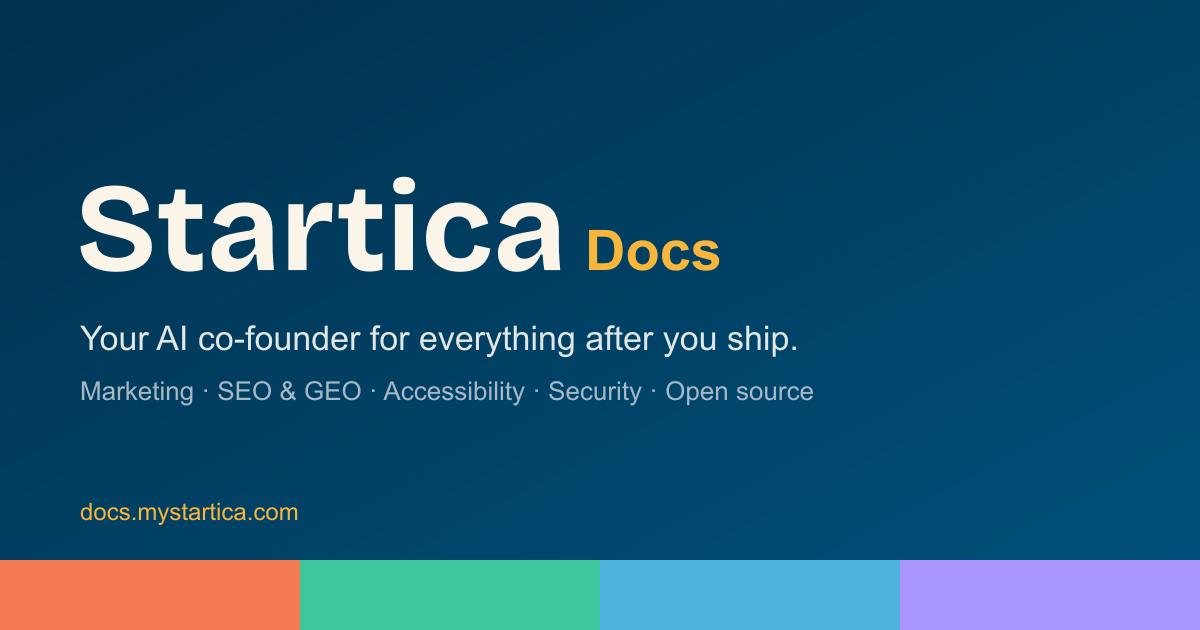
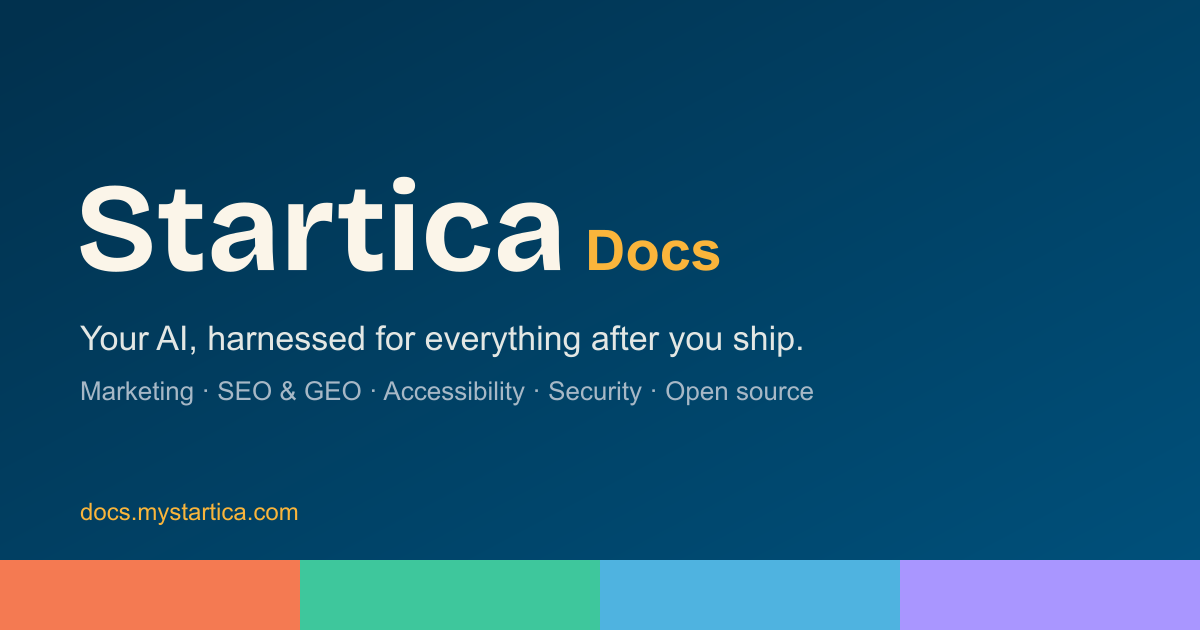
Positioning: Startica is the open-source startup harness
Replace "Your AI co-founder for everything after you ship" with the
category line "The open-source startup harness" and the headline "Your AI,
harnessed for everything after you ship" across the website, docs, README,
the app's metadata and welcome screen, the OG images and the AI prompts.
Adds a homepage FAQ entry explaining the word, and records the decision in
PLAN.md and the brand page.

Changed region(s): [[0.1542, 0.5127, 0.6783, 0.573]]

diff --git a/packages/core/src/intel/prompts.ts b/packages/core/src/intel/prompts.ts
@@ -5,7 +5,7 @@ import { channels } from "@startica/db/schema";
 export const RESEARCH_PROMPT_VERSION = "intel-research@2";
 export const SYNTHESIS_PROMPT_VERSION = "intel-synthesis@4"; // since @3: communities ranked strongest first
 
-export const RESEARCH_SYSTEM = `You are the market researcher inside Startica, an AI co-founder that helps small founders with everything after they ship.
+export const RESEARCH_SYSTEM = `You are the market researcher inside Startica, an open-source startup harness that helps small founders with everything after they ship.
 You research one product so a strategist can plan organic growth for it (community replies, content, SEO), not paid ads.
 
 Use web search and web fetch to find, for the product described by the user:
@@ -15,7 +15,7 @@ Use web search and web fetch to find, for the product described by the user:
 
 Report what you found as concise markdown notes with a short section per topic. Cite the URL for each factual claim. Say plainly when something is uncertain or when you could not verify it. Don't pad: no introductions or conclusions.`;
 
-export const SYNTHESIS_SYSTEM = `You are the strategist inside Startica, an AI co-founder that helps small founders with everything after they ship.
+export const SYNTHESIS_SYSTEM = `You are the strategist inside Startica, an open-source startup harness that helps small founders with everything after they ship.
 From the material provided (the owner's notes, crawled pages from the product's site, and research notes with sources), write the product intel that the rest of Startica builds on: Reddit listening, reply drafting, content, and the growth roadmap.
 
 Rules:

diff --git a/packages/core/src/growth/audits.ts b/packages/core/src/growth/audits.ts
@@ -32,7 +32,7 @@ const FOCUS: Record<AuditKind, string> = {
   geo: `Audit visibility in AI assistants' answers (generative engine optimization), using the research notes: does the product appear when the audience asks AI assistants or search for recommendations; how is it described; which competitors appear instead and why; what sources those answers cite; what content or mentions would get the product included.`,
 };
 
-const SYSTEM = `You are a senior growth and conversion reviewer inside Startica, an AI co-founder that helps a small founder with everything after they ship. Be specific and evidence-based: quote or cite what you saw. Prioritize: high = likely costing signups now; medium = clear improvement; low = polish. 5–12 findings. Never invent facts about the product; if you couldn't check something, say so in the detail.`;
+const SYSTEM = `You are a senior growth and conversion reviewer inside Startica, an open-source startup harness that helps a small founder with everything after they ship. Be specific and evidence-based: quote or cite what you saw. Prioritize: high = likely costing signups now; medium = clear improvement; low = polish. 5–12 findings. Never invent facts about the product; if you couldn't check something, say so in the detail.`;
 
 /** Facts an SEO audit can measure directly instead of asking a model. */
 export async function seoFacts(siteUrl: string): Promise<string> {

diff --git a/packages/core/src/growth/roadmap.ts b/packages/core/src/growth/roadmap.ts
@@ -22,7 +22,7 @@ import { PLAYBOOKS, playbookText } from "./playbooks.ts";
 
 export const ROADMAP_PROMPT_VERSION = "roadmap-plan@3";
 
-const SYSTEM = `You are the growth strategist inside Startica, an AI co-founder that helps a small founder with everything after they ship. You maintain the product's growth roadmap: a short, prioritized list of initiatives across the funnel (acquisition, activation, retention, revenue, referral), each one an experiment with a hypothesis and a success metric.
+const SYSTEM = `You are the growth strategist inside Startica, an open-source startup harness that helps a small founder with everything after they ship. You maintain the product's growth roadmap: a short, prioritized list of initiatives across the funnel (acquisition, activation, retention, revenue, referral), each one an experiment with a hypothesis and a success metric.
 
 You are given the product, its current numbers, what Startica has done (replies drafted, posted, dismissed and why), recent audit findings, the playbooks you can draw from, and the current roadmap.
 

diff --git a/apps/web/simple.config.js b/apps/web/simple.config.js
@@ -15,7 +15,7 @@ export default {
     title: 'Startica',
     url: 'https://mystartica.com',
     description:
-      'Startica is an open-source AI co-founder for everything after you ship. It finds the people who need your product, drafts replies, posts and ads in your voice, gets you found in search and AI answers, and keeps your site accessible and secure. It runs on your desktop, and you approve everything.',
+      'The open-source startup harness. Startica is a harness for your own AI model: it researches your market, finds the conversations, drafts the replies and ads, and checks your SEO, accessibility and security. You approve every move. It runs on your desktop.',
     author: 'Christopher Casper',
     language: 'en',
     repo: 'https://github.com/chriscasper/startica',

diff --git a/apps/desktop-web/src/app/welcome/page.tsx b/apps/desktop-web/src/app/welcome/page.tsx
@@ -20,7 +20,7 @@ export default function WelcomePage() {
       <div className="grid gap-1">
         <StarticaLogo title={null} className="mb-4 h-8 w-auto justify-self-start" />
         <h1 className="text-2xl font-semibold tracking-tight">Welcome to Startica</h1>
-        <p className="text-muted-foreground">Your AI co-founder for everything after you ship. Two minutes of setup, and Startica starts learning about your product.</p>
+        <p className="text-muted-foreground">Your AI, harnessed for everything after you ship. Two minutes of setup, and Startica starts learning about your product.</p>
       </div>
       <Suspense fallback={<Skeleton className="h-80 w-full" />}>
         <Welcome />

diff --git a/apps/docs/simple.config.js b/apps/docs/simple.config.js
@@ -154,7 +154,7 @@ export default {
     title: 'Startica Docs',
     url: 'https://docs.mystartica.com',
     description:
-      'Documentation for Startica, the open-source AI co-founder for everything after you ship: marketing, SEO & GEO, accessibility and security for your product, on your desktop. Install, guides, credentials, reference and contributing.',
+      'Documentation for Startica, the open-source startup harness: marketing, SEO & GEO, accessibility and security for your product, on your desktop. Install, guides, credentials, reference and contributing.',
     author: 'Christopher Casper',
     language: 'en',
     repo: 'https://github.com/chriscasper/startica',

diff --git a/apps/desktop/loading/splash.html b/apps/desktop/loading/splash.html
@@ -227,8 +227,8 @@
         "Reticulating splines",
         "Polishing the launch button",
         "Untangling UTM tags",
-        "Warming up your AI co-founder",
-        "Brewing coffee for the co-founder",
+        "Fastening the harness",
+        "Brewing coffee for the founder",
         "Herding analytics events",
         "Calibrating the hype meter",
         "Alphabetizing the roadmap",

diff --git a/apps/desktop-web/src/app/layout.tsx b/apps/desktop-web/src/app/layout.tsx
@@ -16,7 +16,7 @@ const geistMono = Geist_Mono({
 
 export const metadata: Metadata = {
   title: { default: "Startica", template: "%s · Startica" },
-  description: "Your AI co-founder for everything after you ship.",
+  description: "Your AI, harnessed for everything after you ship.",
 };
 
 export default function RootLayout({ children }: LayoutProps<"/">) {

diff --git a/PLAN.md b/PLAN.md
@@ -106,7 +106,7 @@ Both sites are built: the marketing site (`apps/web`) and 80 docs pages (`apps/d
 
 ## 6. Website decisions
 
-**Tagline (decided 2026-10-14):** "Your AI co-founder for everything after you ship." Sub-line: "Startica finds the people who need your product, gets you found in search and AI answers, and keeps your site accessible and secure. One desktop app, your own keys, and nothing goes out without you." Rejected: "one app instead of five subscriptions" (frames it by what it replaces), "grow your product, keep your site in shape" (forgettable), keeping the marketing headline (undersells half the app).
+**Tagline (decided 2026-10-18):** Category line "The open-source startup harness." Headline "Your AI, harnessed for everything after you ship." Body "Startica is a harness for your own AI model: it researches your market, finds the conversations, drafts the replies and ads, and checks your SEO, accessibility and security. You approve every move." Why: "co-founder" implied autonomy that contradicts "you approve everything" and is a crowded claim; a harness is the structure around your own model, with you holding the reins. Replaced: "Your AI co-founder for everything after you ship" (2026-10-14). Also rejected: "one app instead of five subscriptions" (frames it by what it replaces), "grow your product, keep your site in shape" (forgettable), keeping the marketing headline (undersells half the app).
 
 **The four jobs** (the home page's main section, each in its module's accent color): Reach people (Marketing) · Get found (SEO & GEO) · Work for everyone (Accessibility) · Stay safe (Security). Then how it fits together: Dashboard, Today, Roadmap and the shared scan.
 

diff --git a/apps/docs/content/index.md b/apps/docs/content/index.md
@@ -1,10 +1,10 @@
 ---
 title: Startica documentation
-description: Install, set up and use Startica, the open-source AI co-founder for everything after you ship. Marketing, SEO & GEO, accessibility and security for your product, on your own computer.
+description: Install, set up and use Startica, the open-source startup harness. Marketing, SEO & GEO, accessibility and security for your product, on your own computer.
 layout: doc
 ---
 
-Startica is an open-source (MIT) desktop app that looks after a product once it's shipped. It has four modules: **Marketing** finds conversations worth joining and drafts replies, posts and ads in your voice; **SEO & GEO** helps the product get found in search, in AI answers and by AI agents; **Accessibility** checks your sites against WCAG; and **Security** checks what anyone on the internet can see about your sites, and keeps watching. A **Dashboard** and a short daily list pull it together.
+Startica is the open-source startup harness: an MIT-licensed desktop app that puts your own AI model to work on a product once it's shipped. It has four modules: **Marketing** finds conversations worth joining and drafts replies, posts and ads in your voice; **SEO & GEO** helps the product get found in search, in AI answers and by AI agents; **Accessibility** checks your sites against WCAG; and **Security** checks what anyone on the internet can see about your sites, and keeps watching. A **Dashboard** and a short daily list pull it together.
 
 It runs on your computer, keeps its data in a local SQLite file, and calls the Claude or OpenAI API with your own key. Nothing is posted, launched or changed without you.
 

diff --git a/apps/docs/content/getting-started/what-is-startica.md b/apps/docs/content/getting-started/what-is-startica.md
@@ -4,7 +4,7 @@ description: Startica is a local-first desktop app that looks after a product on
 layout: doc
 ---
 
-Startica is an AI co-founder for everything after you ship, and it runs on your computer. You tell it about your product and its website. It learns the product and its market, finds the conversations where your customers talk, drafts replies, posts and ads for you to review, and checks your sites for the problems that keep people from finding, using or trusting them. Each day it boils all of that down to a short list of what to do next.
+Startica is a startup harness for everything after you ship, and it runs on your computer. A harness puts your own AI model (Claude or OpenAI, with your key) to work on a fixed set of jobs, and keeps you holding the reins. You tell it about your product and its website. It learns the product and its market, finds the conversations where your customers talk, drafts replies, posts and ads for you to review, and checks your sites for the problems that keep people from finding, using or trusting them. Each day it boils all of that down to a short list of what to do next.
 
 You stay in control: Startica never posts, launches or changes anything itself. Even when it fills a reply in on the site for you, you press the site's own button. Ads are files you import and launch. Fixes for your site are suggestions you copy.
 

diff --git a/apps/web/content/index.md b/apps/web/content/index.md
@@ -1,14 +1,14 @@
 ---
 title: Startica
 layout: landing
-description: Startica is an open-source AI co-founder for everything after you ship. It finds the people who need your product, drafts replies, posts and ads in your voice, gets you found in search and AI answers, and keeps your site accessible and secure. It runs on your desktop, and you approve everything.
+description: "The open-source startup harness. Startica is a harness for your own AI model: it researches your market, finds the conversations, drafts the replies and ads, and checks your SEO, accessibility and security. You approve every move. It runs on your desktop."
 image: /og.png
 schema:
   "@context": https://schema.org
   "@type": SoftwareApplication
   name: Startica
   url: https://mystartica.com
-  description: "An open-source desktop app for founders: marketing, SEO and AI visibility, accessibility and security checks for your product, with your own AI key and nothing posted or changed without you."
+  description: "The open-source startup harness: a desktop app for founders that puts your own AI model to work on marketing, SEO and AI visibility, accessibility and security checks for your product, with your own AI key and nothing posted or changed without you."
   applicationCategory: BusinessApplication
   operatingSystem: macOS, Windows, Linux
   isAccessibleForFree: true
